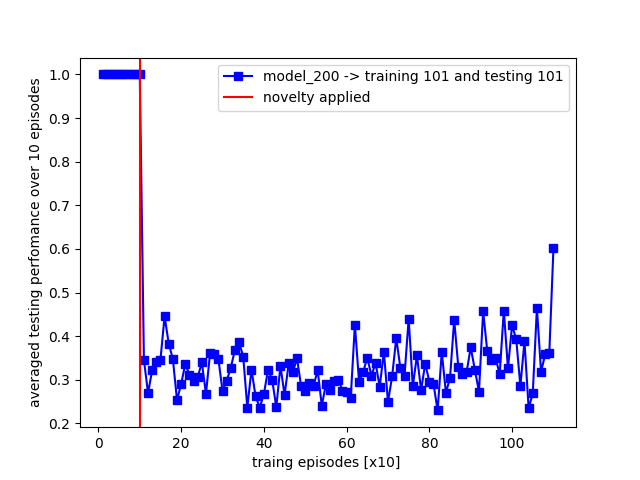
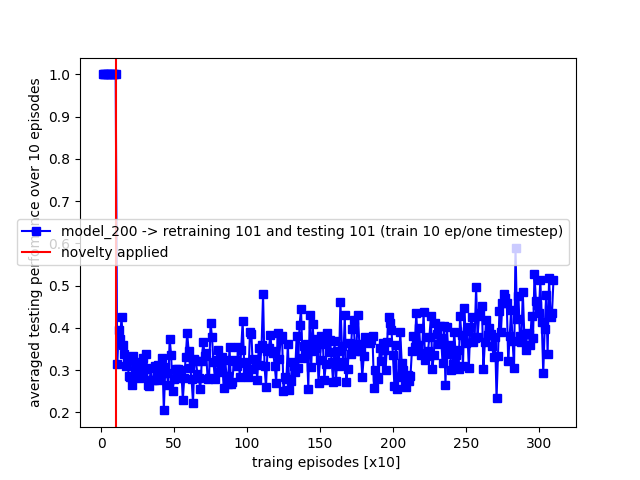
soo

diff --git a/plot.py b/plot.py
@@ -68,7 +68,7 @@ def plot_train_and_test(arr1):
     #plt.xlim([0, 510])
     plt.xlabel("traing episodes [x10] ")
     plt.ylabel("averaged testing perfomance over 10 episodes")
-    plt.plot(step, perf1, 'bs-', label = 'model_200 -> training 101 and testing 101')
+    plt.plot(step, perf1, 'bs-', label = 'model_200 -> retraining 101 and testing 101 (train 10 ep/one timestep)')
     plt.axvline(x = 10, color = 'r', label = 'novelty applied')
     plt.legend()
     plt.savefig("training_10episodes_testing_10points_curve_101.png")
